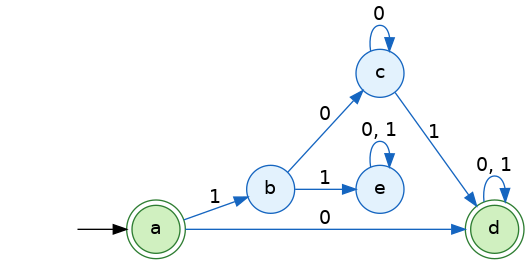
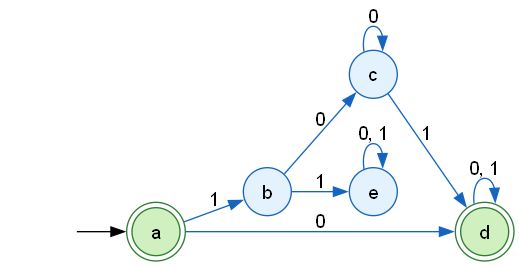
Máquina de Turning

diff --git a/automatomt.py b/automatomt.py
@@ -1,0 +1,234 @@
+import os
+from grafico import gerar_imagem_mt
+
+try:
+    from cores import *
+except Exception:
+    SEPARADOR = TITULO = INFO = DESTAQUE = NEON_AMARELO = NEON_BRANCO = NEON_AZUL = ""
+    NEON_VERDE = NEON_VERMELHO = NEON_CIANO = PALAVRA = CAMINHO = OK = ERRO = ESTATISTICA = ""
+
+BRANCO = "_"
+LIM_ESQ = "<"
+LIM_DIR = ">"
+DIRECOES = {"E": -1, "D": 1}
+
+
+def _caminho_arquivo(nome_arquivo):
+    pasta = os.path.dirname(os.path.abspath(__file__))
+    return os.path.join(pasta, nome_arquivo)
+
+
+def _linha_alfabeto(linha):
+    conteudo = linha[2:]
+    if conteudo.startswith(" "):
+        conteudo = conteudo[1:]
+    return list(conteudo)
+
+
+def ler_arquivo_mt(nome_arquivo="entrada_mt.txt"):
+    with open(_caminho_arquivo(nome_arquivo), "r", encoding="utf-8") as arq:
+        linhas = [linha.rstrip("\n") for linha in arq]
+
+    modo = "MT"
+    pos = 0
+    if linhas and linhas[0].startswith("@"):
+        modo = linhas[0][1:].strip().upper()
+        pos = 1
+        if modo not in {"MT", "ALL"}:
+            raise ValueError("Tipo inválido para máquina de Turing. Use @MT ou @ALL.")
+
+    estados = []
+    alfabeto_entrada = ["0", "1"]
+    alfabeto_fita_extra = []
+    estado_inicial = ""
+    estados_finais = []
+    transicoes = {}
+    palavras_teste = []
+    lendo_palavras = False
+
+    for linha in linhas[pos:]:
+        if linha.startswith("Q:"):
+            estados = linha[2:].strip().split()
+        elif linha.startswith("S:"):
+            alfabeto_entrada = _linha_alfabeto(linha)
+        elif linha.startswith("G:"):
+            alfabeto_fita_extra = _linha_alfabeto(linha)
+        elif linha.startswith("I:"):
+            estado_inicial = linha[2:].strip().split()[0]
+        elif linha.startswith("F:"):
+            estados_finais = linha[2:].strip().split()
+        elif linha == "---":
+            lendo_palavras = True
+        elif not lendo_palavras:
+            if not linha.strip():
+                continue
+            if "->" not in linha or "|" not in linha:
+                continue
+
+            esquerda, direita = linha.split("|", 1)
+            origem_destino = esquerda.split("->", 1)
+            origem = origem_destino[0].strip()
+            destino = origem_destino[1].strip()
+
+            transicoes.setdefault(origem, {})
+            for regra in direita.strip().split():
+                try:
+                    lido, acao = regra.split("/", 1)
+                    escrito = acao[:-1]
+                    direcao = acao[-1]
+                except ValueError as exc:
+                    raise ValueError(f"Transição inválida: {regra}") from exc
+
+                if len(lido) != 1 or len(escrito) != 1 or direcao not in DIRECOES:
+                    raise ValueError(f"Transição inválida: {regra}. Use formato a/bD ou a/bE.")
+
+                transicoes[origem][lido] = (destino, escrito, direcao)
+        else:
+            palavras_teste.append(linha)
+
+    simbolos_proibidos = {BRANCO, LIM_ESQ, LIM_DIR}
+    for simbolo in alfabeto_entrada + alfabeto_fita_extra:
+        if simbolo in simbolos_proibidos:
+            raise ValueError("Os símbolos _, < e > são reservados e não podem aparecer em S: ou G:.")
+
+    return {
+        "tipo": modo,
+        "estados": estados,
+        "alfabeto_entrada": alfabeto_entrada,
+        "alfabeto_fita_extra": alfabeto_fita_extra,
+        "estado_inicial": estado_inicial,
+        "estados_finais": estados_finais,
+        "transicoes": transicoes,
+        "palavras_teste": palavras_teste,
+    }
+
+
+def _criar_fita(palavra, modo):
+    if modo == "ALL":
+        return list(LIM_ESQ + palavra + LIM_DIR), 1
+
+    fita = {0: LIM_ESQ}
+    for i, simbolo in enumerate(palavra, start=1):
+        fita[i] = simbolo
+    return fita, 1
+
+
+def _ler_fita(fita, pos, modo):
+    if modo == "ALL":
+        if pos < 0 or pos >= len(fita):
+            return None
+        return fita[pos]
+    return fita.get(pos, BRANCO)
+
+
+def _escrever_fita(fita, pos, simbolo, modo):
+    if modo == "ALL":
+        if pos < 0 or pos >= len(fita):
+            return False
+        fita[pos] = simbolo
+        return True
+    fita[pos] = simbolo
+    return True
+
+
+def _conteudo_fita(fita, modo):
+    if modo == "ALL":
+        return "".join(fita)
+
+    indices_nao_brancos = [i for i, s in fita.items() if s != BRANCO]
+    ultimo = max(indices_nao_brancos) if indices_nao_brancos else 0
+    return "".join(fita.get(i, BRANCO) for i in range(0, ultimo + 1))
+
+
+def simular_palavra(palavra, dados, limite_passos=100000, limite_celulas=1000000, registrar_caminho=False):
+    modo = dados.get("tipo", "MT")
+    estado = dados["estado_inicial"]
+    finais = set(dados["estados_finais"])
+    transicoes = dados["transicoes"]
+    fita, cabeca = _criar_fita(palavra, modo)
+    caminho = []
+
+    for passo in range(limite_passos):
+        if registrar_caminho:
+            caminho.append((passo, estado, cabeca, _conteudo_fita(fita, modo)))
+
+        if estado in finais:
+            return True, _conteudo_fita(fita, modo), caminho
+
+        simbolo_lido = _ler_fita(fita, cabeca, modo)
+        if simbolo_lido is None:
+            return False, _conteudo_fita(fita, modo), caminho
+
+        regra = transicoes.get(estado, {}).get(simbolo_lido)
+        if regra is None:
+            return False, _conteudo_fita(fita, modo), caminho
+
+        prox_estado, simbolo_escrito, direcao = regra
+        if not _escrever_fita(fita, cabeca, simbolo_escrito, modo):
+            return False, _conteudo_fita(fita, modo), caminho
+
+        estado = prox_estado
+        cabeca += DIRECOES[direcao]
+
+        if modo == "MT":
+            if cabeca < 0 or cabeca > limite_celulas:
+                return False, _conteudo_fita(fita, modo), caminho
+        else:
+            if cabeca < 0 or cabeca >= len(fita):
+                return False, _conteudo_fita(fita, modo), caminho
+
+    return False, _conteudo_fita(fita, modo), caminho
+
+
+def executar_mt(dados):
+    tipo = dados.get("tipo", "MT")
+    print()
+    print(SEPARADOR + "╔" + "═" * 58 + "╗")
+    print(TITULO + f"║ SIMULAÇÃO DA {tipo} ║")
+    print(SEPARADOR + "╚" + "═" * 58 + "╝")
+    print()
+
+    aceitas = 0
+    rejeitadas = 0
+
+    for palavra in dados["palavras_teste"]:
+        aceita, fita_final, _ = simular_palavra(palavra, dados)
+        print(SEPARADOR + "─" * 60)
+        print(PALAVRA + ("Palavra: λ (vazia)" if palavra == "" else f"Palavra: {palavra}"))
+        print(CAMINHO + f"Fita final: {fita_final}")
+        if aceita:
+            print(OK + f"Resultado: OK {fita_final}")
+            aceitas += 1
+        else:
+            print(ERRO + f"Resultado: X {fita_final}")
+            rejeitadas += 1
+
+    print()
+    print(SEPARADOR + "═" * 60)
+    print(ESTATISTICA + "ESTATÍSTICAS")
+    print(SEPARADOR + "═" * 60)
+    print(NEON_VERDE + f"Aceitas: {aceitas}")
+    print(NEON_VERMELHO + f"Rejeitadas: {rejeitadas}")
+    print(NEON_CIANO + f"Total: {aceitas + rejeitadas}")
+
+    if aceitas + rejeitadas > 0:
+        taxa = (aceitas / (aceitas + rejeitadas)) * 100
+        print(NEON_AMARELO + f"Taxa de aceitação: {taxa:.2f}%")
+    print()
+
+    while True:
+        print(SEPARADOR + "═" * 60)
+        print(DESTAQUE + "[1] Gerar imagem da Máquina de Turing")
+        print(DESTAQUE + "[0] Voltar ao menu de extras")
+        print(SEPARADOR + "═" * 60)
+
+        opcao = input("Escolha uma opção: ").strip()
+
+        if opcao == "1":
+            gerar_imagem_mt(dados, nome_arquivo="maquina_turing", tipo=tipo)
+
+        elif opcao == "0":
+            break
+
+        else:
+            print(ERRO + "\nOpção inválida.\n")

diff --git a/grafico.py b/grafico.py
@@ -58,3 +58,66 @@ def gerar_imagem(dados, nome_arquivo="automato", tipo="AFD"):
     dot.render(caminho, format="png", cleanup=True, view=True)
 
     print(INFO + f"\nImagem salva em: {caminho}.png\n")
+
+def gerar_imagem_mt(dados, nome_arquivo="maquina_turing", tipo="MT"):
+    dot = Digraph(name=tipo)
+
+    dot.attr(rankdir="LR")
+    dot.attr("graph", bgcolor="white")
+    dot.attr("node", fontname="Helvetica")
+    dot.attr("edge", fontname="Helvetica")
+
+    estados_finais = set(dados["estados_finais"])
+    transicoes = dados["transicoes"]
+
+    dot.node("__inicio__", shape="none", label="")
+
+    for estado in dados["estados"]:
+        if estado in estados_finais:
+            dot.node(
+                estado,
+                shape="doublecircle",
+                style="filled",
+                fillcolor="#d0f0c0",
+                color="#2e7d32"
+            )
+        else:
+            dot.node(
+                estado,
+                shape="circle",
+                style="filled",
+                fillcolor="#e3f2fd",
+                color="#1565c0"
+            )
+
+    # Seta para o estado inicial da MT
+    dot.edge("__inicio__", dados["estado_inicial"], label="")
+
+    # Agrupa transições com mesmo par origem -> destino
+    arestas = {}
+
+    for origem, regras in transicoes.items():
+        for simbolo_lido, acao in regras.items():
+            destino, simbolo_escrito, direcao = acao
+
+            lido = "□" if simbolo_lido == "_" else simbolo_lido
+            escrito = "□" if simbolo_escrito == "_" else simbolo_escrito
+            rotulo = f"{lido}/{escrito}{direcao}"
+
+            chave = (origem, destino)
+
+            if chave not in arestas:
+                arestas[chave] = []
+
+            arestas[chave].append(rotulo)
+
+    for (origem, destino), rotulos in arestas.items():
+        label = "\\n".join(rotulos)
+        dot.edge(origem, destino, label=label, color="#1565c0")
+
+    pasta = os.path.dirname(os.path.abspath(__file__))
+    caminho = os.path.join(pasta, nome_arquivo)
+
+    dot.render(caminho, format="png", cleanup=True, view=True)
+
+    print(INFO + f"\nImagem da {tipo} salva em: {caminho}.png\n")

diff --git a/main.py b/main.py
@@ -1,14 +1,12 @@
 from leituraArq import ler_arquivo
 from interface import menu_principal, menu_extras
 
+from automatomt import ler_arquivo_mt, executar_mt
 from automatofd import executar_afd
 from automatoafnd import executar_afnd
 
 
-
 def main():
-
-    
 
     while True:
 
@@ -19,43 +17,34 @@ def main():
             executar_afd(dados)
 
         elif opcao == "2":
-
             while True:
 
                 opcao_extra = menu_extras()
 
                 if opcao_extra == "1":
-
                     dados = ler_arquivo("entrada_afnd.txt")
                     executar_afnd(dados)
 
                 elif opcao_extra == "2":
-
                     #fazer ap
                      print("ap")
                     
                 elif opcao_extra == "3":
-
-                    #fazer mt
-                     print("mt")
+                     dados = ler_arquivo_mt("entrada_mt.txt")
+                     executar_mt(dados)
                    
                 elif opcao_extra == "0":
-
                     break
 
                 else:
-
                     print("\nOpção inválida.\n")
 
         elif opcao == "0":
-
             print("\nEncerrando programa...")
             break
 
         else:
-
             print("\nOpção inválida.\n")
-
 
 if __name__ == "__main__":
     main()